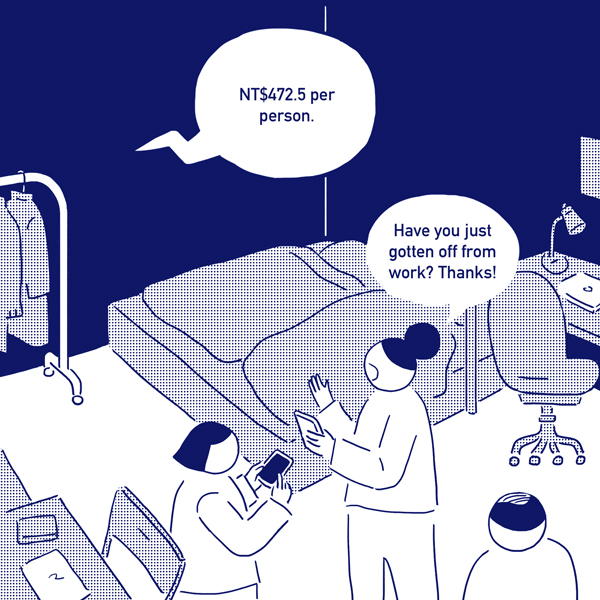
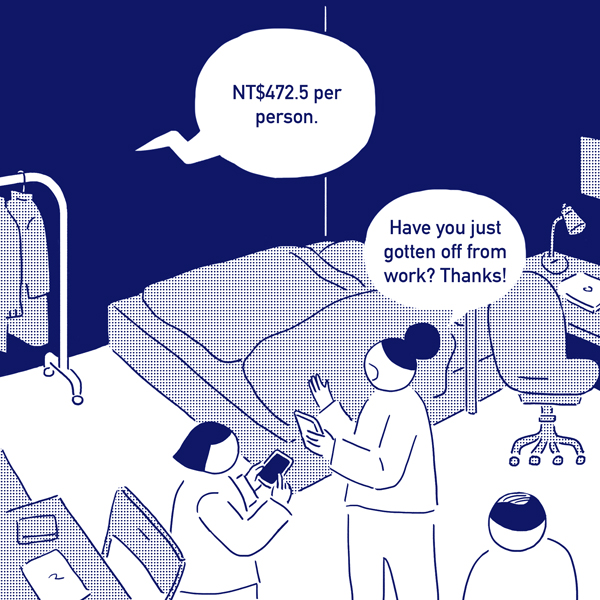
耳塞英版字改大為16pt

Changed region(s): [[0.6, 0.3, 0.9, 0.51], [0.39, 0.12, 0.57, 0.21], [0.72, 0.51, 0.78, 0.54]]

diff --git a/en/products/earplugs.html b/en/products/earplugs.html
@@ -107,7 +107,7 @@
                     alt="這個月16701減掉上個月16512，乘以每度電5元，再除以2平分，這樣電費一個人是多少錢？" />
                  <details>
                         <summary>Notes</summary>
-                        <p>NT$5 per kilowatt-hour is a common rate in Taiwan. And this rate is usually setten by the landlord. </p>
+                        <p>NT$5 per kilowatt-hour is common rate in Taiwan. And this rate is usually decided by the landlord.  </p>
                     </details> 
             </div>
 
